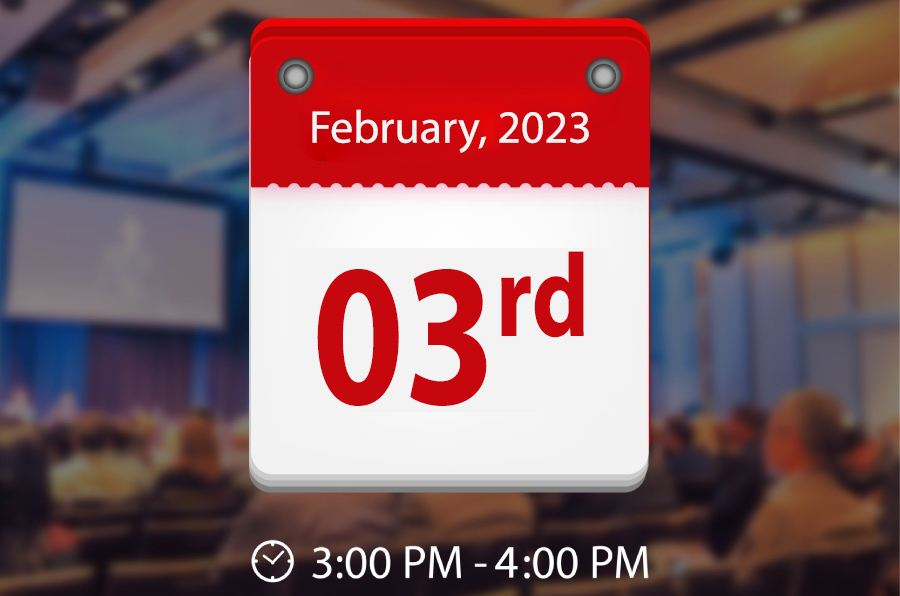
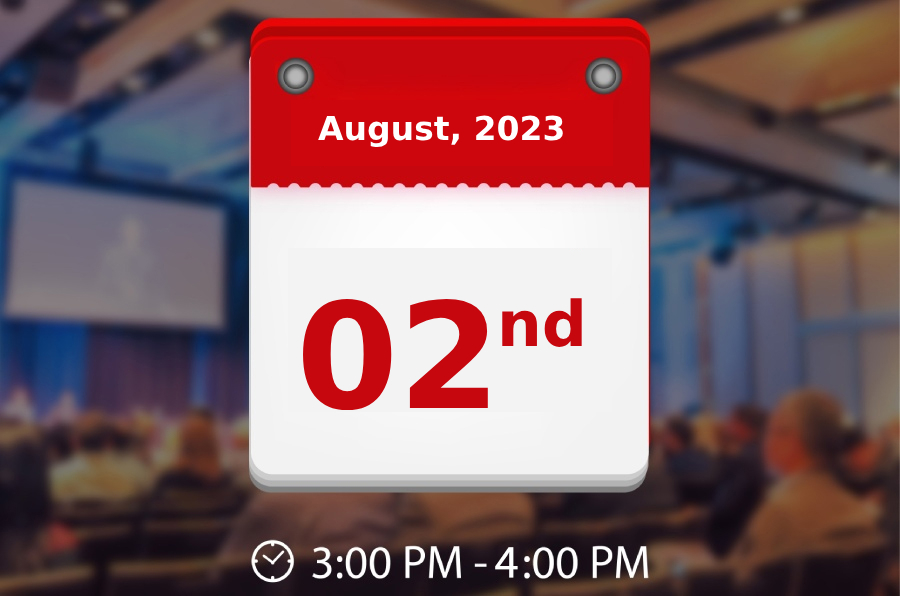
kk
;pp

Changed region(s): [[0.3111, 0.4228, 0.6533, 0.6946], [0.3422, 0.1812, 0.6533, 0.2718]]

diff --git a/pages/join-our-partner-network-lp-ab-testing.js b/pages/join-our-partner-network-lp-ab-testing.js
@@ -51,7 +51,7 @@ export default function JoinOurPartnerNetworkLP(){
             </div>
             </div>
 
-            <div className="rs-about style2 pt-50 pb-20 aboutsection1">
+            <div id='GetinTouch' className="rs-about style2 pt-50 pb-20 aboutsection1">
                 <div className="container">
                     <div className="row">
                         <div className="col-md-6 ">
@@ -106,9 +106,8 @@ export default function JoinOurPartnerNetworkLP(){
 
                                         <div className="col-lg-12 mb-12">
                                         <select name="intrestedin" required>
-                                                <option value="">Pick up any Slot*</option>                                                
-                                                
-                                                <option value="July 12th 2023 - 11:00 AM - 12:00 PM">July 12th - 11:00 AM - 12:00 PM</option>
+                                                <option value="">Pick up any Slot*</option>
+                                                <option value="September 8th 2023 - 11:00 AM - 12:00 PM">September 8th 2023 - 11:00 AM - 12:00 PM</option>
                                             </select>
                                         </div>
                                         
@@ -183,20 +182,20 @@ export default function JoinOurPartnerNetworkLP(){
                         </div>
                     </div> */}
 
-                    <div className='col-sm-4'>
-                        <div className='eventsbox'>
-                            <div className='eventmiddle'>
-                                <img src="/assets/img/events.jpg" alt="" />
-                                <span>Webinar July 12th 2023</span>
-                            </div>
-                            
-                            <div className='eventbottom'>
-                                <h3 className='hhd'>BYLD Partner Network Briefing</h3>
-                                <h5>Time: 11:00 AM - 12:00 PM</h5>
-                                <a className="eventbtn" href='#'>REGISTER NOW</a>
+<div className='col-sm-4'>
+                            <div className='eventsbox'>
+                                <div className='eventmiddle'>
+                                    <img src="/assets/img/events.jpg" alt="" />
+                                    <span>Webinar 8th September 2023</span>
+                                </div>
+
+                                <div className='eventbottom'>
+                                    <h3 className='hhd'>BYLD Partner Network Briefing</h3>
+                                    <h5>Time: 11:00 AM - 12:00 PM</h5>
+                                    <a className="eventbtn" href='#GetinTouch'>REGISTER NOW</a>
+                                </div>
                             </div>
                         </div>
-                    </div>
 
                 </div>
             </div>

diff --git a/pages/join-our-partner-network-lp.js b/pages/join-our-partner-network-lp.js
@@ -51,7 +51,7 @@ export default function JoinOurPartnerNetworkLP(){
             </div>
             </div>
 
-            <div className="rs-about style2 pt-50 pb-20 aboutsection1">
+            <div id='GetinTouch' className="rs-about style2 pt-50 pb-20 aboutsection1">
                 <div className="container">
                     <div className="row">
                         <div className="col-md-6 ">
@@ -107,7 +107,7 @@ export default function JoinOurPartnerNetworkLP(){
                                         <div className="col-lg-12 mb-12">
                                             <select name="intrestedin" required>
                                                 <option value="">Pick up any Slot*</option>                                                
-                                                <option value="July 12th 2023 - 11:00 PM - 12:00 PM">July 12th 2023 - 11:00 PM - 12:00 PM</option>
+                                                <option value="September 8th 2023 - 11:00 AM - 12:00 PM">September 8th 2023 - 11:00 AM - 12:00 PM</option>
                                             </select>
                                         </div>
                                         
@@ -168,19 +168,19 @@ export default function JoinOurPartnerNetworkLP(){
                     
 
                     <div className='col-sm-4'>
-                        <div className='eventsbox'>
-                            <div className='eventmiddle'>
-                                <img src="/assets/img/events.jpg" alt="" />
-                                <span>Webinar July 12th 2023</span>
-                            </div>
-                            
-                            <div className='eventbottom'>
-                                <h3 className='hhd'>BYLD Partner Network Briefing</h3>
-                                <h5>Time: 11:00 PM - 12:00 PM</h5>
-                                <a className="eventbtn" href='#'>REGISTER NOW</a>
+                            <div className='eventsbox'>
+                                <div className='eventmiddle'>
+                                    <img src="/assets/img/events.jpg" alt="" />
+                                    <span>Webinar 8th September 2023</span>
+                                </div>
+
+                                <div className='eventbottom'>
+                                    <h3 className='hhd'>BYLD Partner Network Briefing</h3>
+                                    <h5>Time: 11:00 AM - 12:00 PM</h5>
+                                    <a className="eventbtn" href='#GetinTouch'>REGISTER NOW</a>
+                                </div>
                             </div>
                         </div>
-                    </div>
 
                   
 

diff --git a/pages/join-our-partner-network.js b/pages/join-our-partner-network.js
@@ -146,8 +146,7 @@ export default function JoinOurPartnerNetworkLP() {
 
                                             <div className="col-lg-12 mb-12">
                                                 <select name="intrestedin" required>
-                                                    <option value="">Pick up any Slot*</option>                                                    
-                                                    <option value="July 12th 2023 - 11:00 AM - 12:00 PM">July 12th 2023 - 11:00 AM - 12:00 PM</option>                                                    
+                                                    <option value="">Pick up any Slot*</option>                                        
                                                     <option value="September 8th 2023 - 11:00 AM - 12:00 PM">September 8th 2023 - 11:00 AM - 12:00 PM</option>
                                                 </select>
                                             </div>
@@ -500,21 +499,7 @@ export default function JoinOurPartnerNetworkLP() {
                             </div>
                         </div> */}
 
-                        <div className='col-sm-4'>
-                            <div className='eventsbox'>
-                                <div className='eventmiddle'>
-                                    <img src="/assets/img/events.jpg" alt="" />
-                                    <span>Webinar 12th July 2023</span>
-                                </div>
-
-                                <div className='eventbottom'>
-                                    <h3 className='hhd'>BYLD Partner Network Briefing</h3>
-                                    <h5>Time: 11:00 AM - 12:00 PM</h5>
-                                    <a className="eventbtn" href='#GetinTouch'>REGISTER NOW</a>
-                                </div>
-                            </div>
-                        </div>
-
+                    
                         <div className='col-sm-4'>
                             <div className='eventsbox'>
                                 <div className='eventmiddle'>

diff --git a/pages/tirian-lp.js b/pages/tirian-lp.js
@@ -96,8 +96,7 @@ export default function TirianIndex(){
                                         </div>
                                         <div className="col-sm-6 mb-12">
                                             <select name="slot" required>
-                                                <option value="">Pick up any Slot*</option>                                                
-                                                <option value="Webinar 7th July 2023">Webinar 7th July 2023</option>
+                                                <option value="">Pick up any Slot*</option>
                                                 <option value="Webinar 11th August 2023">Webinar 11th August 2023</option>
                                                 <option value="Webinar 15th September 2023">Webinar 15th September 2023</option>
                                                 <option value="Webinar 6th October 2023">Webinar 6th October 2023</option>
@@ -163,22 +162,7 @@ export default function TirianIndex(){
                         </div>
                     </div> */}
 
-                    
                    
-
-                    <div className='col-sm-4'>
-                        <div className='eventsbox'>
-                            <div className='eventmiddle'>
-                                <img src="/assets/img/events.jpg" alt="" />
-                                <span>Webinar Wednesday, 7th July 2023</span>
-                            </div>
-                            <div className='eventbottom'>
-                                <h3>Time: 11:00 AM -12:00 PM</h3>
-                                <a className="eventbtn" href='#Reserve'>REGISTER NOW</a>
-                            </div>
-                        </div>
-                    </div>
-
                     <div className='col-sm-4'>
                         <div className='eventsbox'>
                             <div className='eventmiddle'>

diff --git a/pages/fivebehaviors/personal-development-webinar.js b/pages/fivebehaviors/personal-development-webinar.js
@@ -54,7 +54,7 @@ export default function FIveBWorkshop(){
                             <div className="content-wrap">                                
                                 <h2 className="colorw">Bring success to your teams by upskilling each individual of your team with The principles of The Five Behaviors<sup>®</sup></h2>
                                 <h3 className="colorw">Five Behaviors<sup>®</sup> Personal Development</h3>
-                                <h3 className="colorw">Date: 03rd February, 2023 Time: Time: 3 PM – 4 PM</h3>                                
+                                <h3 className="colorw">Date: 02nd August, 2023 Time: Time: 3 PM – 4 PM</h3>                                
                             </div>
                         </div>
                         <div className="col-md-5 col-sm-12">
@@ -81,7 +81,7 @@ export default function FIveBWorkshop(){
                                         <div className="col-md-12 mb-12">
                                             <select name="intrestin" required>
                                                 <option value="">Interested In*</option>
-                                                <option value="Personal Development Webinar 3rd February, 2023">Personal Development Webinar 3rd February, 2023</option>
+                                                <option value="Personal Development Webinar 2nd August, 2023">Personal Development Webinar 2nd August, 2023</option>
                                             </select>
                                         </div>
 

diff --git a/pages/assessments/lumina-psychometric-assesments.js b/pages/assessments/lumina-psychometric-assesments.js
@@ -100,7 +100,7 @@ export default function LuminaPsychomentricAssesments(){
                                         <div className="col-lg-12 mb-12">
                                             <select name="intrestedin" required>
                                                 <option value="">Pick up any Slot*</option>
-                                                <option value="20th January 2023: 03:00 PM - 04:00 PM">20th January 2023: 03:00 PM - 04:00 PM</option>
+                                                <option value="23rd August 2023: 03:00 PM - 04:00 PM">23rd August 2023: 03:00 PM - 04:00 PM</option>
                                             </select>
                                         </div>
                                         
@@ -182,7 +182,7 @@ export default function LuminaPsychomentricAssesments(){
                         <div className='eventsbox'>
                             <div className='eventmiddle'>
                                 <img src="/assets/img/events.jpg" alt="" />
-                                <span>Webinar 20th January 2023</span>
+                                <span>Webinar 23rd August 2023</span>
                             </div>
                             
                             <div className='eventbottom'>

diff --git a/pages/everythingdisc/everything-disc-ttt-vt-lp.js b/pages/everythingdisc/everything-disc-ttt-vt-lp.js
@@ -111,8 +111,7 @@ export default function DiskTTTLP(){
                                     
                                         <div className="col-sm-6 mb-12">
                                             <select name="slot" required>
-                                                <option value="">Pick up any Slot*</option>                                                
-                                                <option value="15th - 16th June 2023 - DISC Train-the-Trainer (TTT)">15th - 16th June 2023 - DISC Train-the-Trainer (TTT)</option>
+                                                <option value="">Pick up any Slot*</option>
                                                 <option value="18th - 21st July, 2023 - DISC Train-the-Trainer (TTT)">18th - 21st July - DISC Train-the-Trainer (TTT)</option>
                                                 <option value="Auguest 17th - 18th, 2023 - DISC Train-the-Trainer (TTT)">Auguest 17th - 18th, 2023 - DISC Train-the-Trainer (TTT)</option>
                                             </select>
